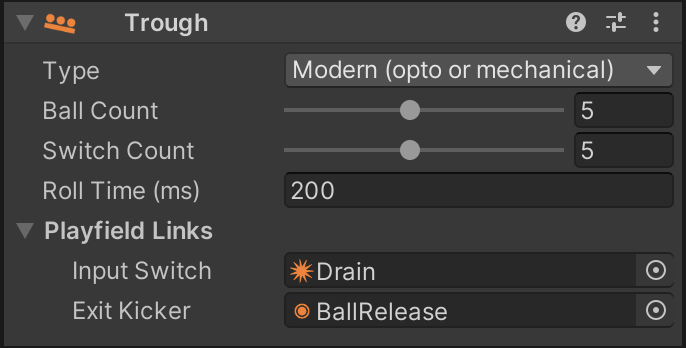
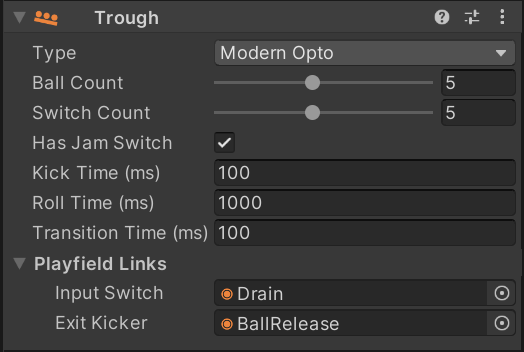
trough: Update documentation.

diff --git a/VisualPinball.Unity/Documentation~/creators-guide/manual/mechanisms/troughs.md b/VisualPinball.Unity/Documentation~/creators-guide/manual/mechanisms/troughs.md
@@ -12,23 +12,29 @@ When importing a `.vpx` file that doesn't have any troughs (which is likely, bec
 
 <img src="trough-inspector.png" width="343" class="img-responsive pull-right" style="margin-left: 15px">
 
-To interact with the game, you'll need to setup an **entry switch** to drain the ball into the trough, and an **exit kicker** to release a new ball from the trough. This terminology may seem weird, since the ball *exits* the playfield when draining, but the links are labelled in relation to the trough.
+To interact with the game, you'll need to setup an **input switch** to drain the ball into the trough, and an **exit kicker** to release a new ball from the trough. This terminology may seem weird, since the ball *exits* the playfield when draining, but the links are labelled in relation to the trough.
 
 You can setup these links under *Playfield Links* by selecting the trough in the hierarchy panel and linking them to the desired items using the inspector.
 
+> [!NOTE]
+> Both the input switch and the exit kicker are not related to the gamelogic engine. Their goal is purely to link the physics simulation to the trough logic, whose behavior is not physically simulated. 
+>
+> Since many games actually *do* have an input switch (which we call *drain switch*) and an exit kicker (we that one *eject coil*), they are simulated by the trough itself and show up in the switch- and coil manager under the trough device.
+
 The inspector also lets you configure other options:
 
-- **Ball Count** defines how many balls the trough can hold.
-- **Switch Count** sets how many ball switches are available. This is usually the same number as the ball count.
-- **Has Jam Switch** defines if the trough has a jam switch. 
+- **Ball Count** defines how many balls the trough holds when the game starts.
+- **Switch Count** sets how many ball switches are available. This is usually the same number as the ball count. The drain switch and the jam switch are not included in this.
+- **Has Jam Switch** defines if the trough has a jam switch. This switch is often called *eject switch* as well.
 - **Roll Time** sets how long it takes the ball to roll from one switch to the next.
 - **Kick Time** defines how long it takes the ball to get kicked from the drain into the trough.
+- **Transition Time** is only relevant for opto switches and defines how long the switch closes between balls.
 
 ## Trough Types
 
 VPE supports several variants of troughs found on real machines. You can configure the behavior of the trough by changing the *Type* in the inspector when the trough is selected in the hierarchy.
 
-In this section we'll again link to the excellent MPF documentation explaining each of the different types. We'll also provide a screenshot of the trough inspector during gameplay that allows you to check the switch status in real time.
+In this section we'll again link to the excellent MPF documentation explaining each of the different types. We'll also provide an animation of the trough inspector during gameplay showing how the switches and coils behave in real time.
 
 ### Modern Mechanical
 
@@ -36,7 +42,7 @@ In this section we'll again link to the excellent MPF documentation explaining e
 
 [Modern troughs with mechanical switches](https://docs.missionpinball.org/en/latest/mechs/troughs/#option-2-modern-trough-with-mechanical-switches) are covered by this type.
 
-The ball drains from the playfield directly into the ball stack, and every ball slot has an associated switch. When a ball gets ejected, the remaining balls move down simultaneously to the next position. During that movement, their switches get first opened and then closed again when they reached the next position. The time of this movement is defined by *Roll Time*.
+The ball drains from the playfield directly into the ball stack, and every ball slot has an associated switch. When a ball gets ejected, the remaining balls move down simultaneously to the next position. During that movement, their switches get first opened and then closed again when they reach the next position. The time of this movement is defined by *Roll Time*.
 
 *The animation on the right shows a 6-ball trough filled with three balls. It starts by ejecting a ball, followed by draining that ball, rolling back onto the stack.*
 
@@ -67,7 +73,7 @@ We call this closing time the *transition time* - it's the time during stack tra
 
 In terms of switches, they still include a switch per ball in the stack, but also an additional drain switch to trigger kicking the ball from the drain into the stack.
 
-*The animation shows a 6-ball trough filled with three balls. It starts by ejecting a ball, followed by draining that ball. The ball stays in the drain.*
+*The animation shows a 6-ball trough filled with three balls. It starts by ejecting a ball, followed by draining that ball. The ball stays in the drain until the entry coil activates, which makes the ball roll over to the ball stack.*
 
 ### Two coils and one switch
 
@@ -77,7 +83,7 @@ A trough can also have [only one switch](https://docs.missionpinball.org/en/late
 
 Instead of a *Switch Count* like the previous types, you select a *Switch Position*, which is the position in the ball stack at which the ball farthest away from the eject coil sits.
 
-*The animation shows a 6-ball trough filled with six balls. It starts by ejecting a ball, followed by draining that ball. The ball stays in the drain.*
+*The animation shows a 6-ball trough filled with six balls. It starts by ejecting a ball, followed by draining that ball. The ball stays in the drain until the entry coil activates, which makes the ball roll over to the ball stack.*
 
 ### Classic single ball
 
@@ -97,6 +103,9 @@ To configure the switches, open the [switch manager](../../editor/switch-manager
 
 ## Coil Setup
 
-VPE's trough supports two coils, an entry coil which drains the ball from the outhole into the trough, and an eject coil which pushes a new ball into the plunger lane. To configure the coils, open the [coil manager](../../editor/coil-manager.md), find or add the coils, and link them to the trough like you did with the switches:
+VPE's trough supports up to two coils, an entry coil which drains the ball from the outhole into the trough, and an eject coil which pushes a new ball into the plunger lane. To configure the coils, open the [coil manager](../../editor/coil-manager.md), find or add the coils, and link them to the trough like you did with the switches:
 
 ![Coil Manager](trough-coils.png)
+
+> [!NOTE]
+> Depending on which trough type is set, different coils and switches show up under the trough device.
